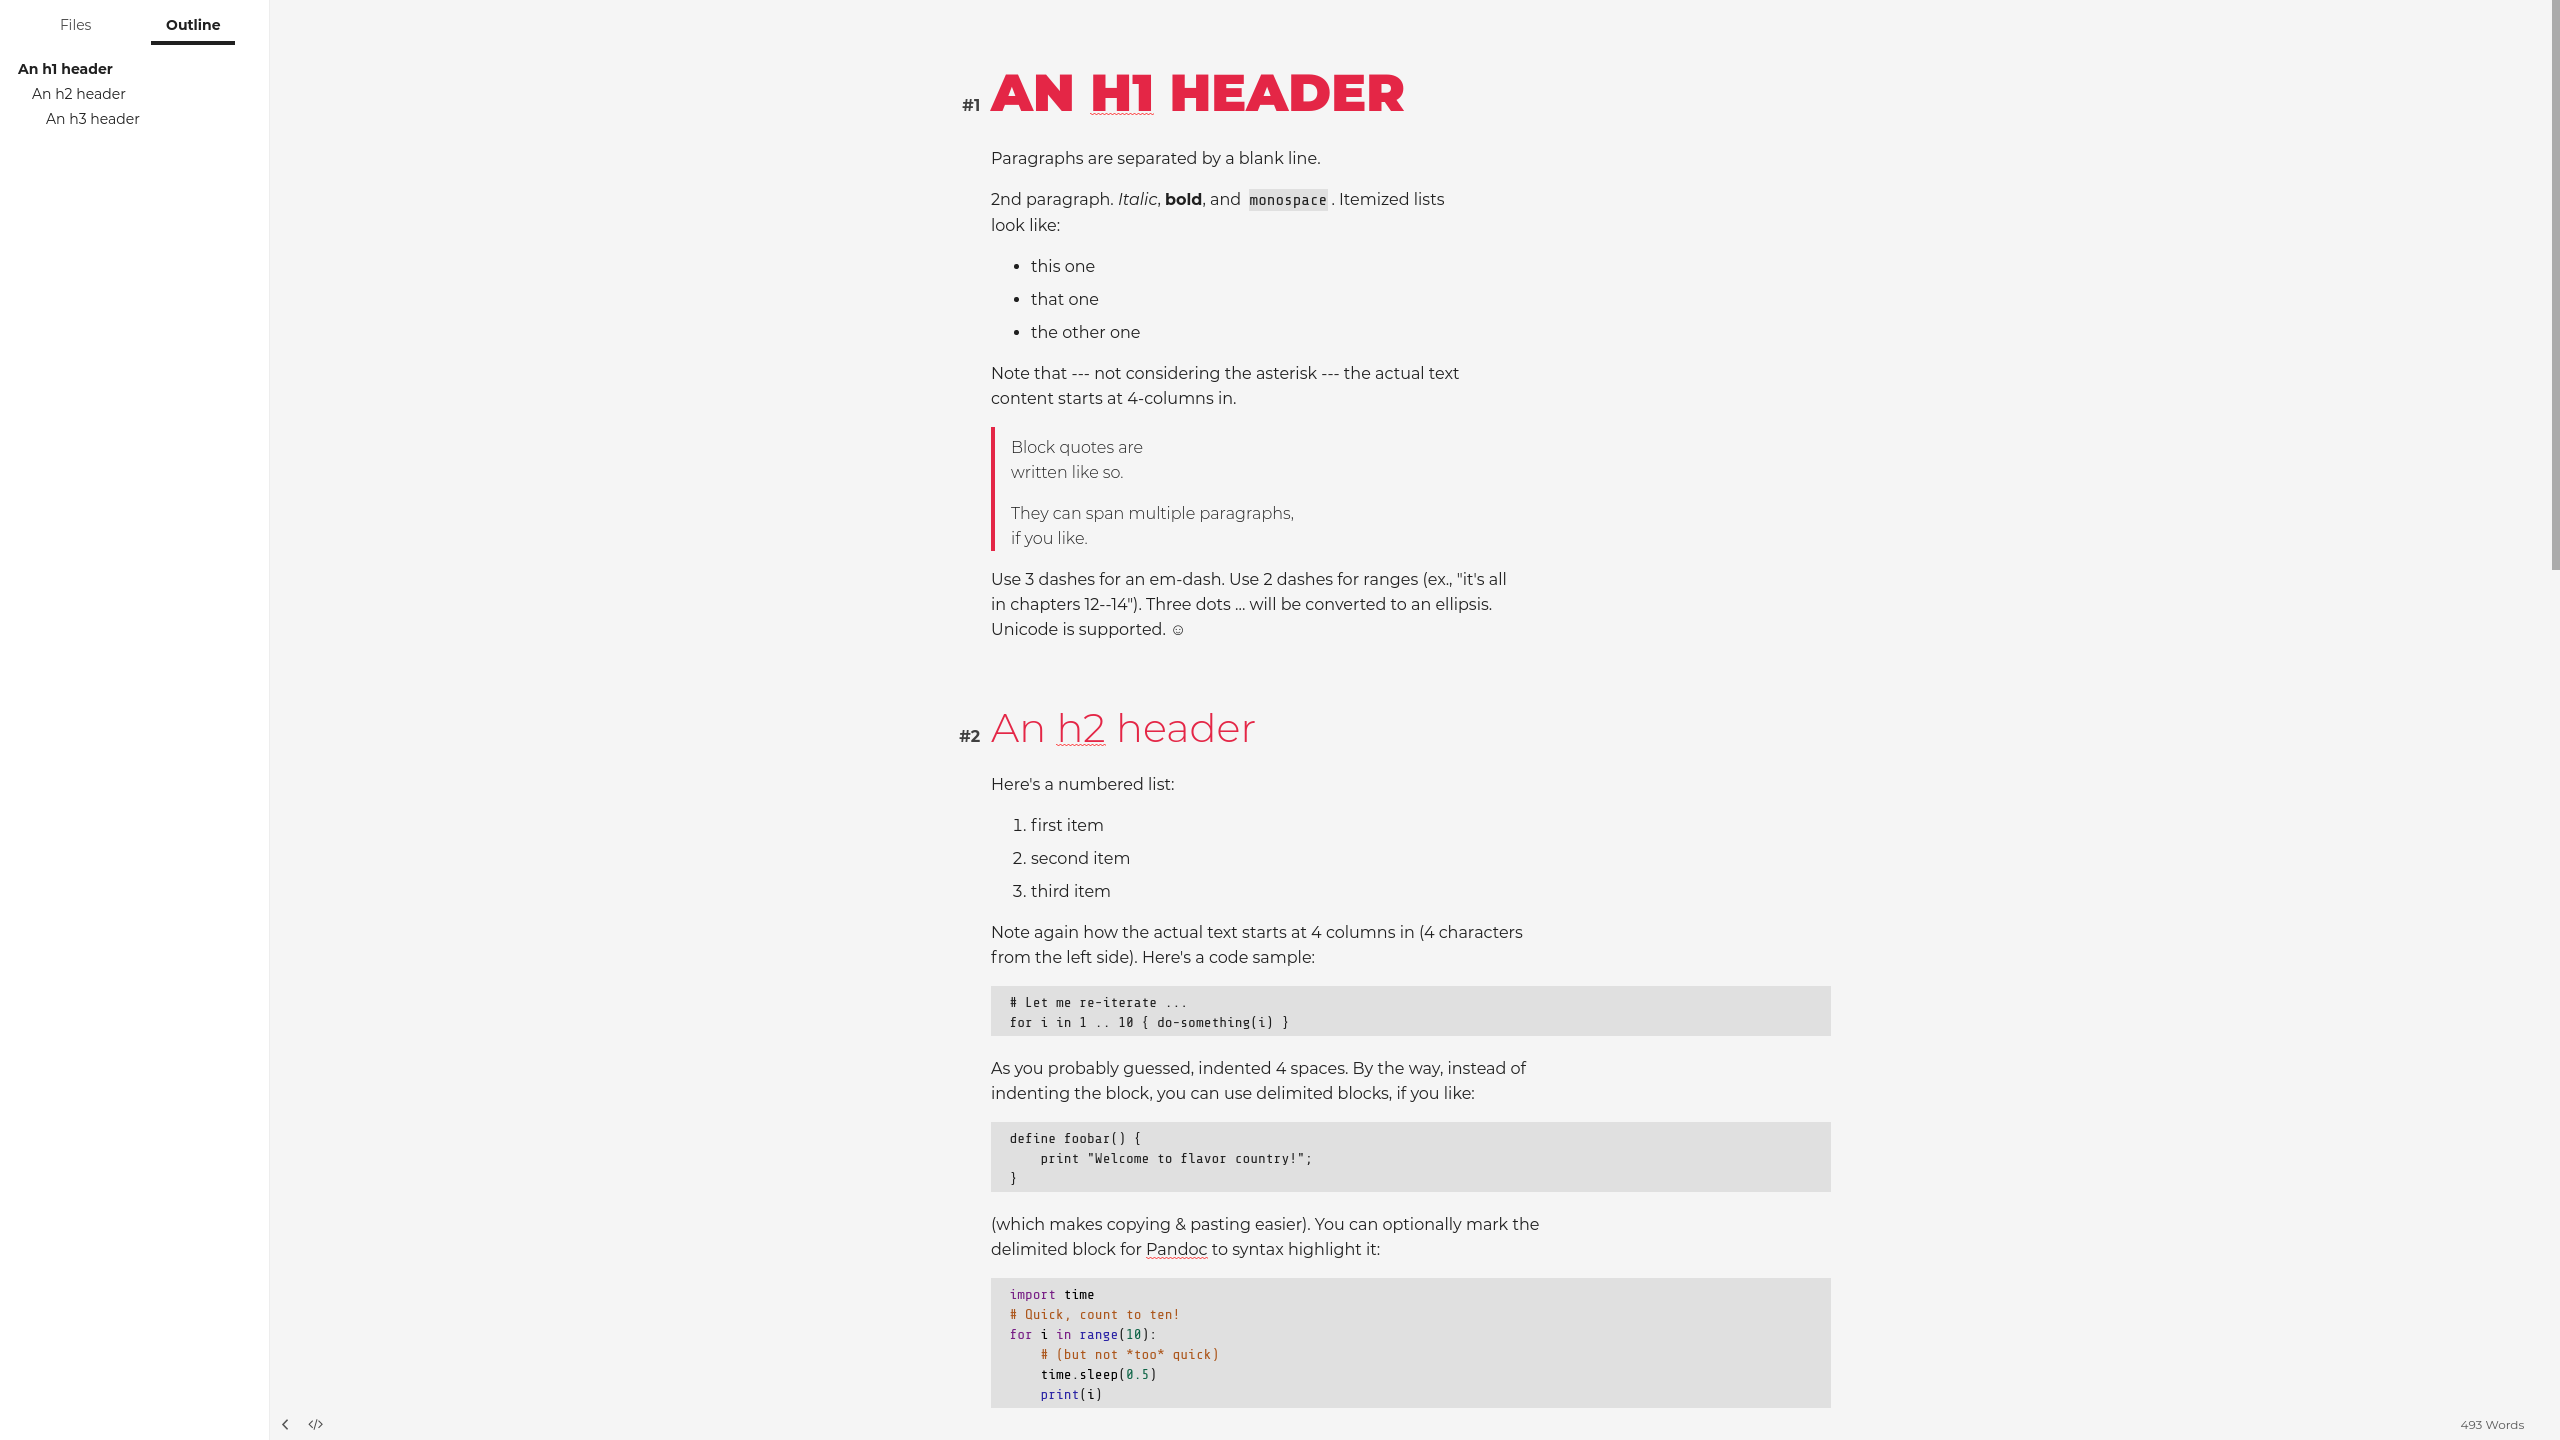
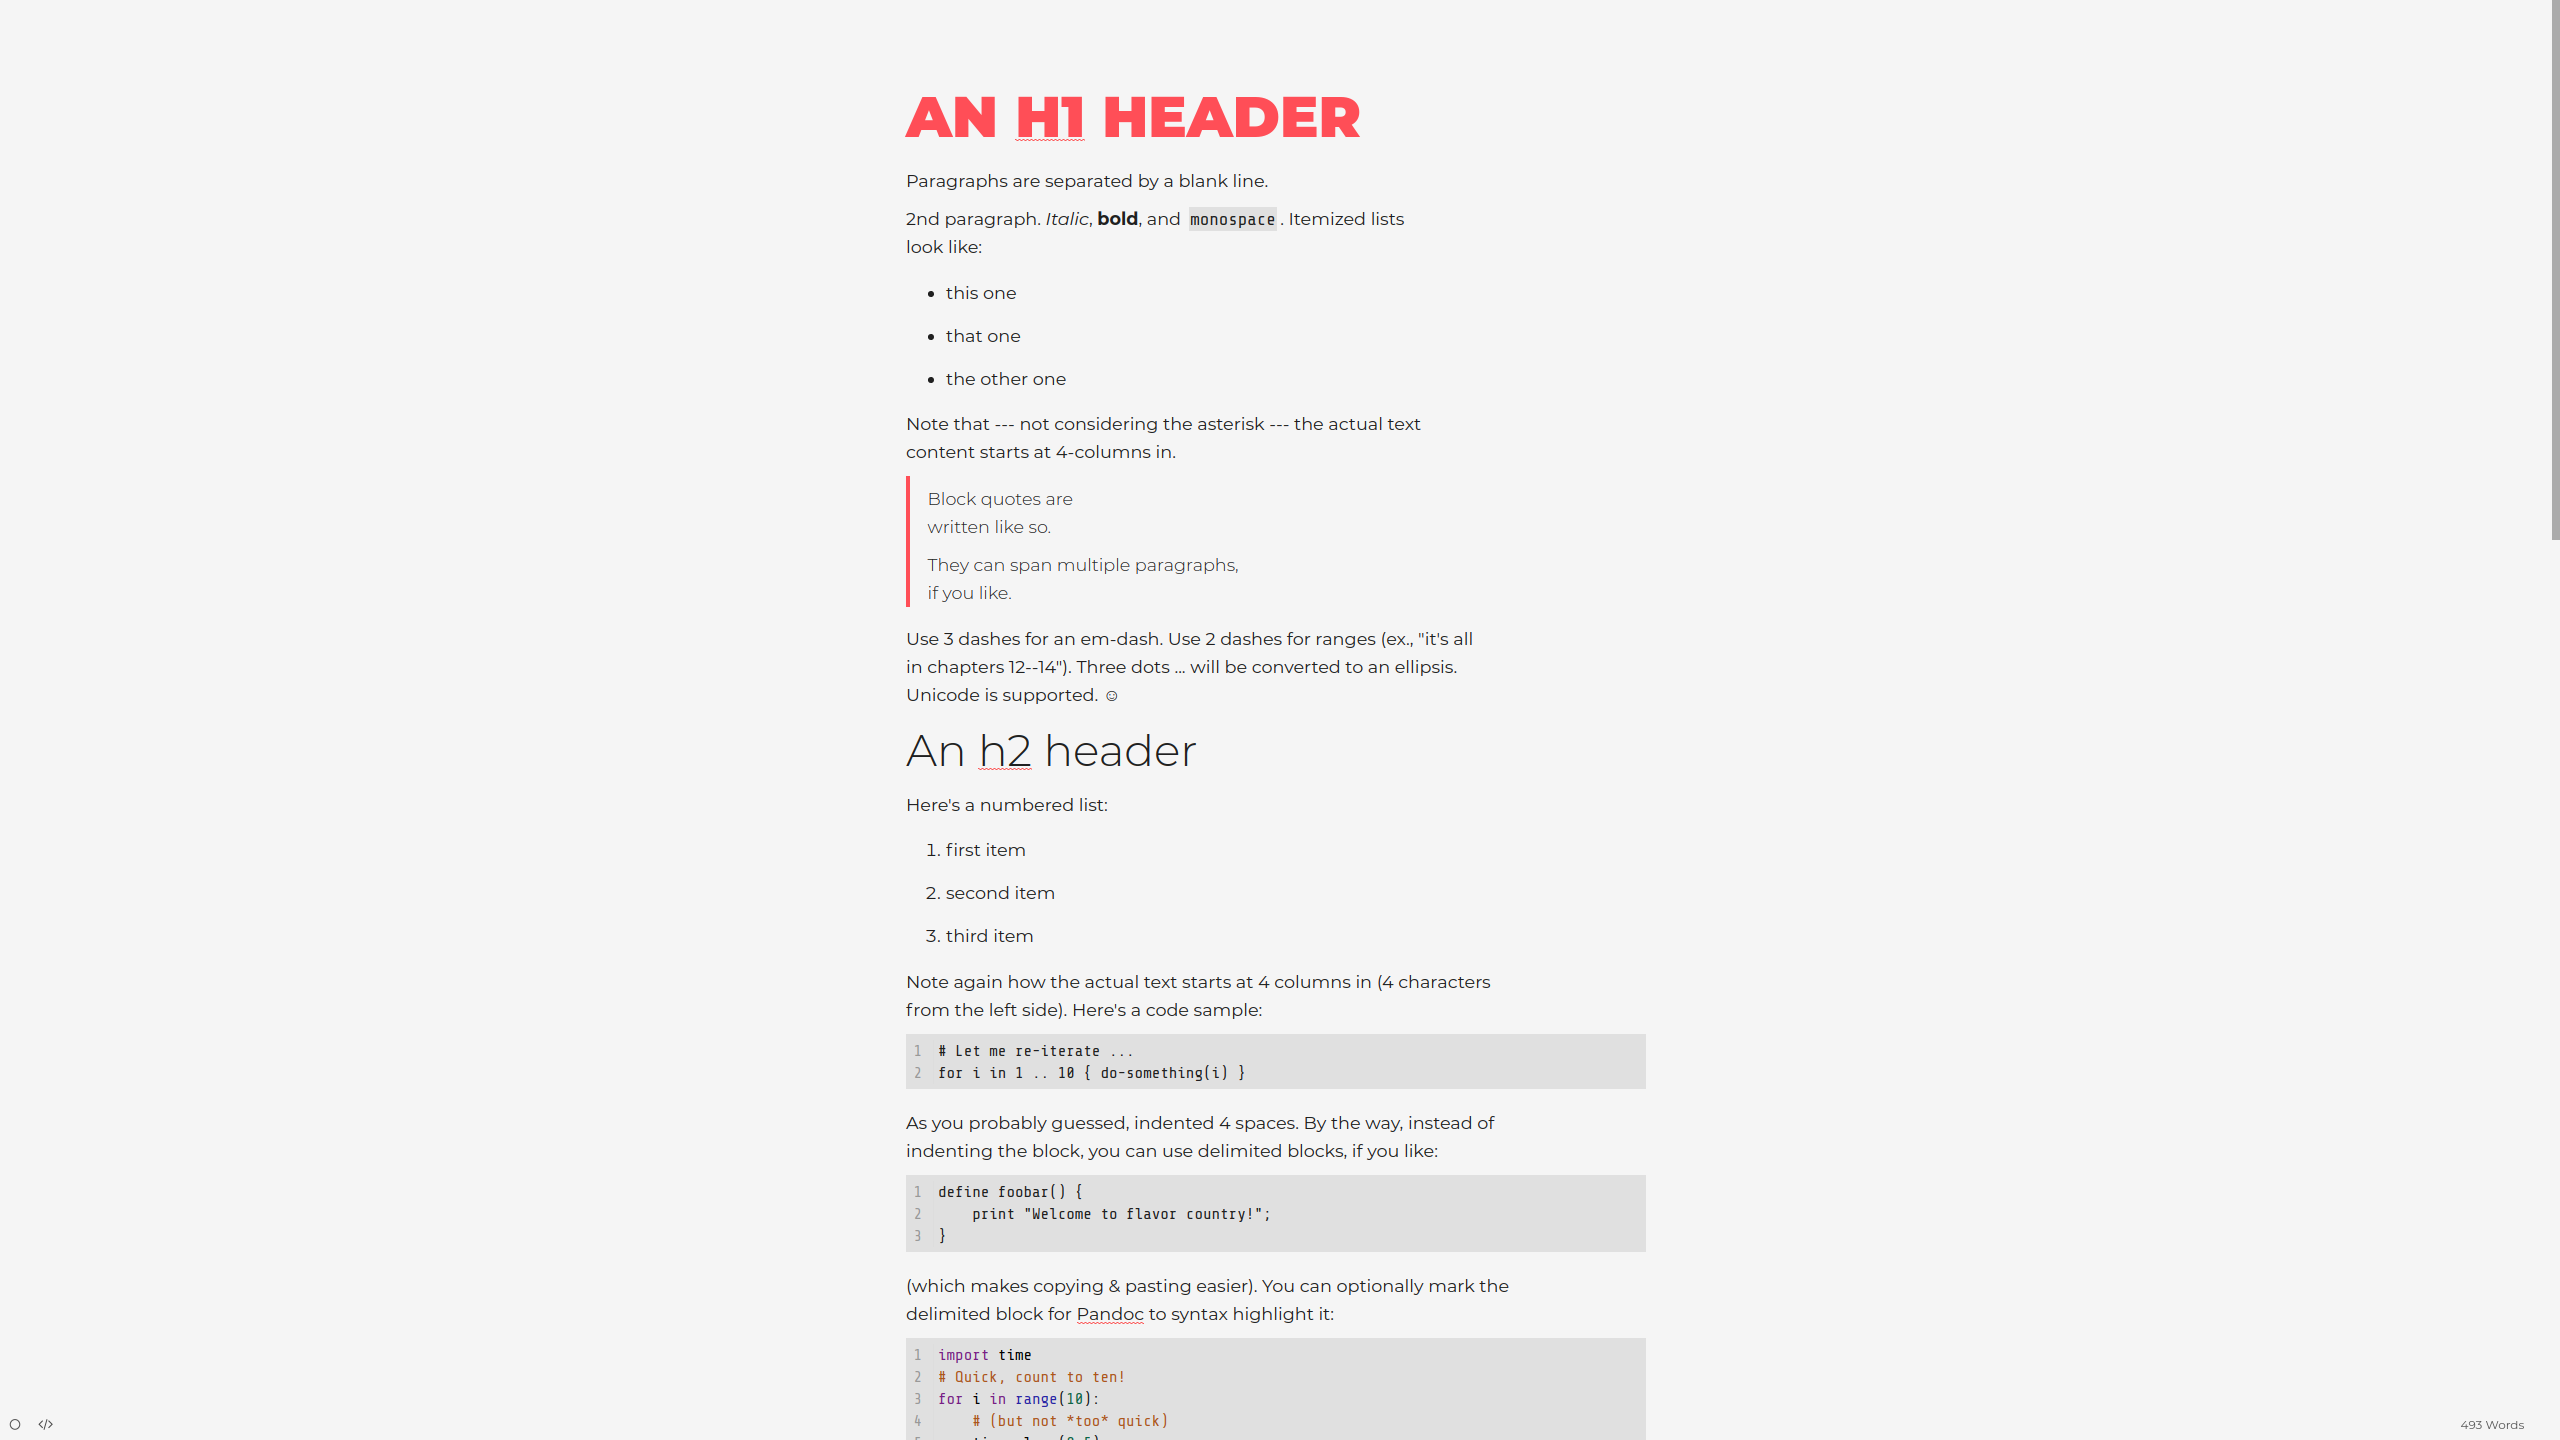
Fixed print theme issue and updated readme

diff --git a/theme/benjistokman-print.css b/theme/benjistokman-print.css
@@ -8,15 +8,15 @@ ben.stokman@protonmail.com
 */
 
  : root {
-	--accent-color: #202020; 
+	--accent-color: #000000; 
 	--bg-color: #ffffff; 
-	--border-color: #202020; 
+	--border-color: #000000; 
 	--code-bg-color: #e0e0e0; 
-	--text-color: #202020; 
-	--header-color: #202020; 
-	--link-color: #202020; 
+	--text-color: #000000; 
+	--header-color: #000000; 
+	--link-color: #000000; 
 	--side-bar-bg-color: #ffffff; 
-	--window-border: 1px solid #202020; 
+	--window-border: 1px solid #000000; 
 	--active-file-bg-color: #b0b0b0; 
 	--body-font: 'Montserrat', sans-serif; 
 	--font-size: 1rem; 
@@ -43,7 +43,7 @@ code, .md-fences {background-color: #e0e0e0;}
 .context-menu {background: #f0f0f0;}
 
 /* 1.2: Other Colors */
-blockquote {border-left: 4px solid #202020;}
+blockquote {border-left: 4px solid #000000;}
 
 /* ================
  2.0: Fonts
@@ -76,8 +76,8 @@ blockquote {font-weight: 300;}
 h1, h2, h3, h4, h5, h6, p {margin-top: 0px; margin-bottom: 10px;}
 
 /* 2.3: Font Colors */
-html, body, #write, #typora-sidebar {color: #202020;}
-h1, a {color: #202020;}
+html, body, #write, #typora-sidebar {color: #000000;}
+h1, a {color: #000000;}
 .context-menu {color: 303030;}
 
 /* 2.4: Font Styling */
@@ -98,7 +98,7 @@ html, body {margin: 0px; padding: 0px;}
 
 /* 3.2: Tables */
 table {margin-bottom: 20px}
-table th, table td {padding: 8px; line-height: 1.25rem; vertical-align: top; border: 1px solid #202020;}
+table th, table td {padding: 8px; line-height: 1.25rem; vertical-align: top; border: 1px solid #000000;}
 table th {font-weight: bold}
 table thead th {vertical-align: bottom}
 table thead: first-child tr: first-child th {border-bottom: 2px solid; text-align: center;}

diff --git a/readme.md b/readme.md
@@ -10,6 +10,8 @@ This theme is free to download, modify, use, and release for any reason; and is 
 
 ![dark](dark.png)
 
+![print](print.png)
+
 ## Download
 
 Download this repository: https://github.com/benjistokman/typora-theme
